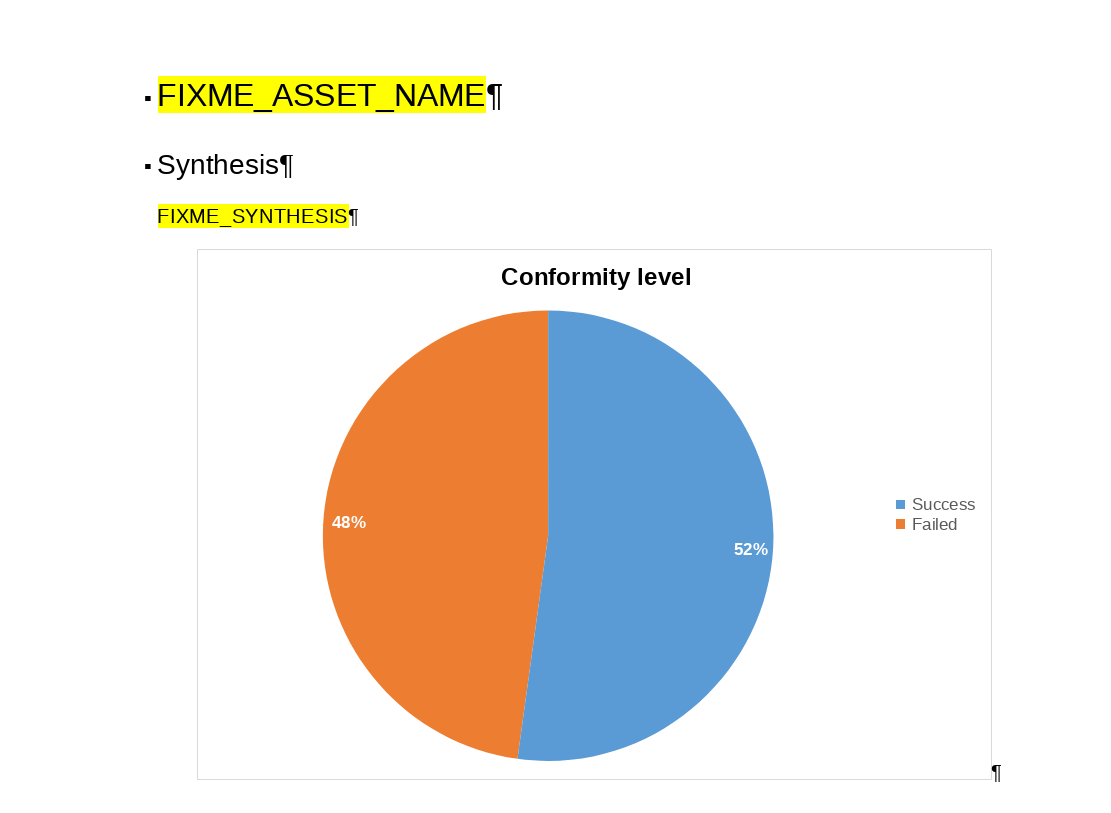
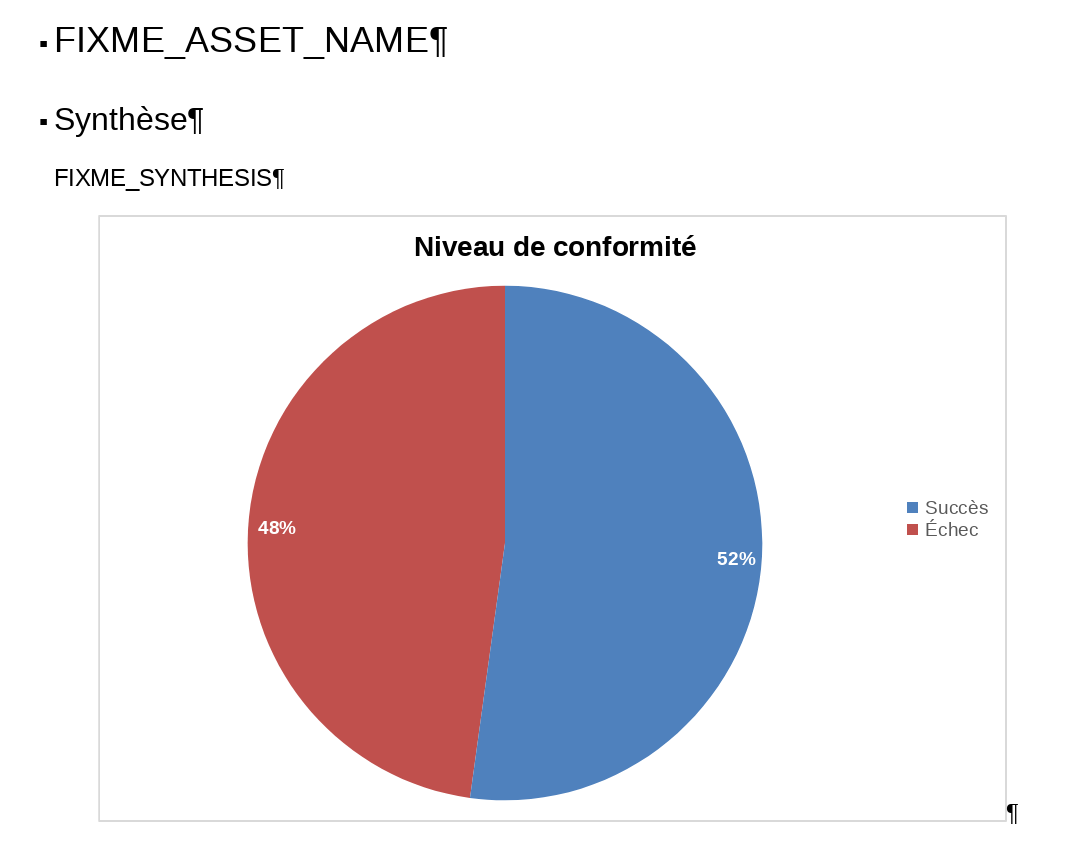
:memo: update README

diff --git a/README.md b/README.md
@@ -37,27 +37,32 @@ See installation instructions for [ONLYOFFICE plugin](onlyoffice/) and [LibreOff
 
 - Go the `plugins` and select `octoconf`:
 
-![step1](resources/onlyoffice/step_1.png)
+<p align="center">
+  <img src="resources/onlyoffice/step_1.png" width="300">
+</p>
 
-- Choose the `CSV` file generated with `octoconf` and import:
+- Choose the `CSV` file generated with `octoconf`, select the report languague and import:
 
-![step2](resources/onlyoffice/step_2.png)
+<p align="center">
+  <img src="resources/onlyoffice/step_2_en.png" width="150">
+  <img src="resources/onlyoffice/step_2_fr.png" width="150">
+</p>
 
 - Update each `FIXME` accordingly:
 
-![step3](resources/onlyoffice/step_3.png)
+<p align="center">
+  <img src="resources/onlyoffice/step_3.png" width="300">
+</p>
 
 - Same here:
 
-![step4](resources/onlyoffice/step_4.png)
+<p align="center">
+  <img src="resources/onlyoffice/step_4.png" width="300">
+</p>
 
 ### LibreOffice
 
 Soon :)
-
-## TODO
-
-- Internationalization
 
 ## Maintainer
 
